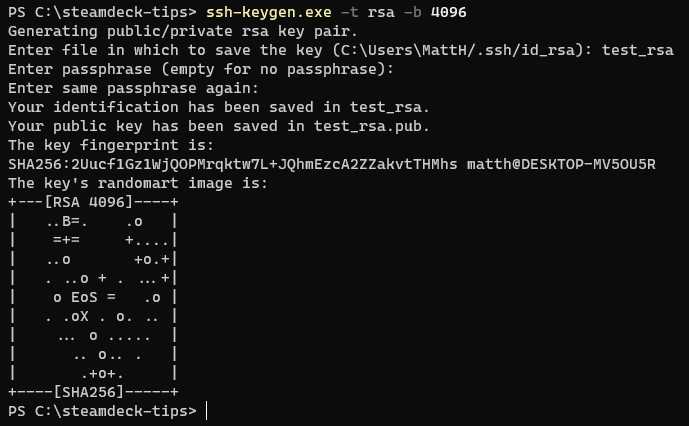
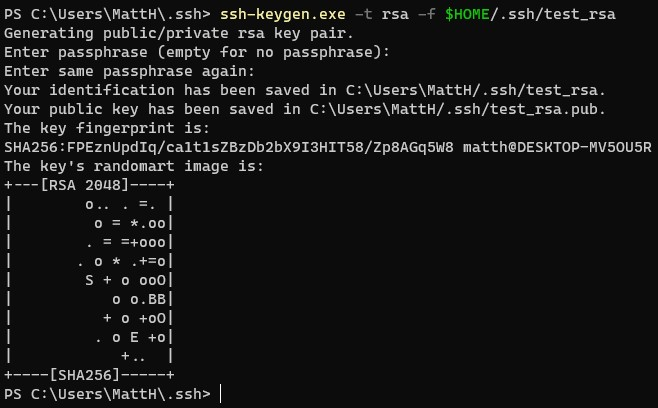
update images

Changed region(s): [[0.0, 0.0, 1.0, 1.0], [0.0912, 0.5588, 0.1216, 0.6176]]

diff --git a/ssh.md b/ssh.md
@@ -21,7 +21,7 @@ passwd
 ```
 sudo systemctl enable sshd
 ```
-9. now run the following command to verify the SSHD is enabled
+9. now run the following command to verify that SSHD is enabled
 ```
 sudo systemctl status sshd
 ```
@@ -60,42 +60,60 @@ sudo systemctl status sshd
   - PowerShell 5.1 or 7.x [guide](https://docs.microsoft.com/en-us/powershell/scripting/install/installing-powershell-on-windows?view=powershell-7.2)
   - OpenSSH (optional feature) [guide](https://docs.microsoft.com/en-us/windows-server/administration/openssh/openssh_install_firstuse#install-openssh-using-powershell)
 
-  **Create and Install the Keypair (Client: Windows)**
-  > from a powershell prompt
-  1. Run the following command
+  <BR>
+
+**Create and Install the Keypair (Client: Windows)**
+
+> from a powershell prompt
+
+1. Run the following command
+
   ```cmd
-  ssh-keygen -t rsa -b 4096
+  ssh-keygen -t rsa -f $HOME/.ssh/id_rsa
   ```
-  > Generating a Test Key (by default your key will be named `id_rsa`)
+  > **Example:** Generating a Test Key (by default your key will be named `id_rsa`)
 
   ![/images/ssh-keygen.jpg](/images/ssh-keygen.jpg)
 
 
-  2. When prompted to enter a file location leave it blank for purposes of the guide 
+2. When prompted to enter a file location leave it blank for purposes of the guide 
 
-    > generated ssh keys will save to `$HOME\.ssh` by default 
-    > typically: `c:\users\<userprofile>\.ssh` 
+  > generated ssh keys will save to `$HOME\.ssh` by default 
+  > typically: `c:\users\<userprofile>\.ssh` 
 
  3. When prompted enter a secure passphrase
+
   > Don't recommend leaving this blank, once done you will not need to type a password when you connect via SSH
   <br><span style='color:red;font-weight:bold'>If you plan on using [SSHFS](https://github.com/winfsp/sshfs-win#unc-syntax) to map drives to your Deck, leave the passphrase blank, SSHFS doesn't support PubKey passphrases</span>
 
 4. Run the following commands to make sure the `ssh-agent` service is running
+
 ```powershell
-  Set-Service ssh-agent -StartupType Automatic
-  Start-Service ssh-agent -PassThru | Get-Service
+Set-Service ssh-agent -StartupType Automatic
+Start-Service ssh-agent -PassThru | Get-Service
 ```
+
 5. The final output should look like this (otherwise ask an adult)
-```
+
+  ![/images/ssh-agent-start.jpg](/images/ssh-agent-start.jpg)
+
+<!-- ```
 Status   Name               DisplayName
 ------   ----               -----------
 Running  ssh-agent          OpenSSH Authentication Agent
-```
+``` -->
+
 6. Run the following command, you'll need the exact path of the key you generated in step 2
 ```cmd
-ssh-add $HOME\.ssh\id_rsa
+ssh-add $HOME/.ssh/id_rsa
 ```
+
 7. When prompted enter your passphrase for the last time, The key is now installed
+
+> **Example:** Test Key added to `ssh-agent`
+
+  ![/images/ssh-add.jpg](/images/ssh-add.jpg)
+
 8. Run the following command to copy your public key to the steam deck
 
 > DO NOT COPY `$HOME\.ssh\id_rsa` this is your Private Key and remains on your windows machine.
@@ -121,6 +139,11 @@ scp $HOME\.ssh\id_rsa.pub deck@steamdeck:~/.ssh
 ```
 cat ~/.ssh/id_rsa.pub
 ```
+  > WARNING: <span style='color:red;font-weight:bold'>Don't share actual SSH keys you use for authentication on the internet</span>
+
+  ![/images/test-pubkey.jpg](/images/test-pubkey.jpg)
+
+
 2. assuming the key is present run the following to create the `authorized_keys` file
 ```
 cat ~/.ssh/id_rsa.pub >> ~/.ssh/authorized_keys
@@ -135,6 +158,11 @@ testvar=`grep ^PasswordAuthentication /etc/ssh/sshd_config`
 
 sudo systemctl restart sshd.service
 ```
+> Additionally: This file can also be edited using `nano` or `vim` (if you're a masochist)
+
+  ![/images/nano-edit.jpg](/images/nano-edit.jpg)
+
+
 **Test Login (Client: Windows)**
 1. From your Windows PC login to the deck via SSH
 
@@ -170,6 +198,9 @@ This will install the required packages
 > NOTE: if you don't have `winget` installed, you can open the `Microsoft Store` and search for **winget** and install it, it may also be called **App Installer**
 > [Microsoft Store: App Installer](https://www.microsoft.com/store/productId/9NBLGGH4NNS1)
 
+  ![/images/msstore-install-winget.jpg](/images/msstore-install-winget.jpg|height=80)
+
+
 **Map Network Drives**
 > NOTE: SSHFS may require specific syntax depending on you connect to SSH
 > `sshfs` by default will connect to your user home directory usually `/home/deck`
@@ -180,12 +211,19 @@ This will install the required packages
 1. Map Drive to your Internal SSD `Steam` directory
 
 ```
-net use Z: \\sshfs\deck@steamdeck\.local\share\Steam /PERSISTENT:YES
+net use Z: \\sshfs\deck@steamdeck\.local\share\Steam /persistent:yes /savecred
 ```
+
 2. Map Drive to your MicroSD
+
 > NOTE: if you didn't let the deck auto-format your SD card, replace `mmcblk0p1` with the name of the volume
+
 ```
-net use Z: \\sshfs.r\deck@steamdeck\run\media\mmcblk0p1 /PERSISTENT:YES
+net use Z: \\sshfs.r\deck@steamdeck\run\media\mmcblk0p1 /persistent:yes /savecred
 ```
+
+  > These Drives should now be persistent and reconnect at login
+
+  ![/images/mapped-drives.jpg](/images/mapped-drives.jpg)
 
 
